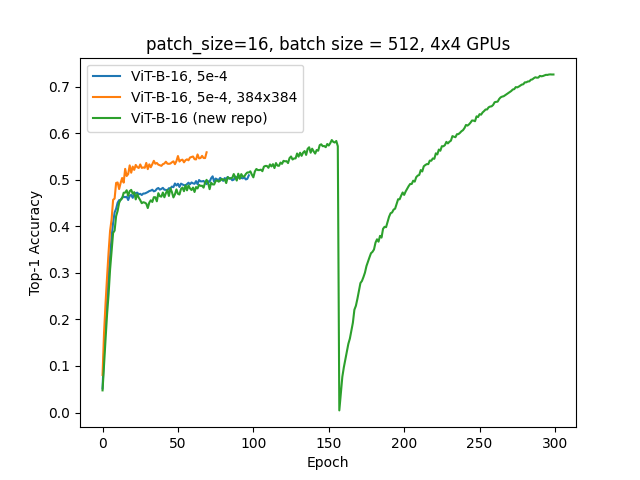
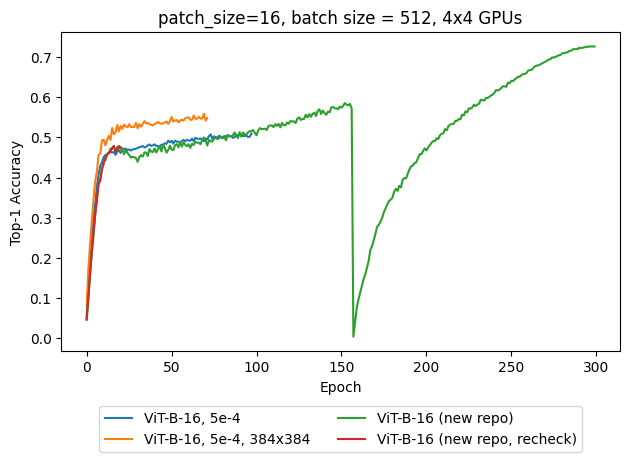
recheck imagenet

diff --git a/src/ImageNet_acc_vis.py b/src/ImageNet_acc_vis.py
@@ -34,7 +34,7 @@ def parse_all_accuracies(model2path: Dict) -> Dict:
     """Parses all files in the model2path dictionary to extract accuracies."""
     model2acc = {}
     for model, path in model2path.items():
-        if model == 'ViT-B-16 (new repo)':
+        if 'new repo' in model:
             model2acc[model] = parse_one_accuracy(path, newcodebase=True)
         else:
             model2acc[model] = parse_one_accuracy(path, newcodebase=False)
@@ -47,8 +47,14 @@ def plot_acc_vis(model2acc: Dict, patch_size: int) -> None:
     plt.xlabel("Epoch")
     plt.ylabel("Top-1 Accuracy")
     plt.title(f"patch_size={patch_size}, batch size = 512, 4x4 GPUs")
-    plt.legend()
-    plt.savefig(f"ALL_ImageNet_acc_vis_16.png")
+    
+    # Place legend outside below plot
+    plt.legend(loc="upper center", bbox_to_anchor=(0.5, -0.15), ncol=2)
+    
+    plt.tight_layout()
+    plt.savefig(f"ALL_ImageNet_acc_vis_{patch_size}.png", bbox_inches="tight")
+    plt.close()
+
 
 def main():
     PATCH_SIZE = 16
@@ -68,6 +74,7 @@ def main():
         #"DRIP-16-25%, 4+8, 5e-5": 'ImageNet_DRIP_4_8.txt',
         'ViT-B-16, 5e-4, 384x384': 'AUG_22_384_resolution_ViT.txt',
         'ViT-B-16 (new repo)': 'AUG_20_new_imagenet_codebase.txt',
+        'ViT-B-16 (new repo, recheck)': 'AUG_23_ViT_recheck.txt'
     }
 
     model2acc = parse_all_accuracies(model2path)

diff --git a/src/task1_newcodebase.py b/src/task1_newcodebase.py
@@ -1117,7 +1117,7 @@ def main(args):
     print("Creating model")
 
     ##### TODO: integrate DRIP too #####
-    use_DRIP = False
+    use_DRIP = True
     if use_DRIP:
         RESOLUTION = 224
         patch_size = 16
